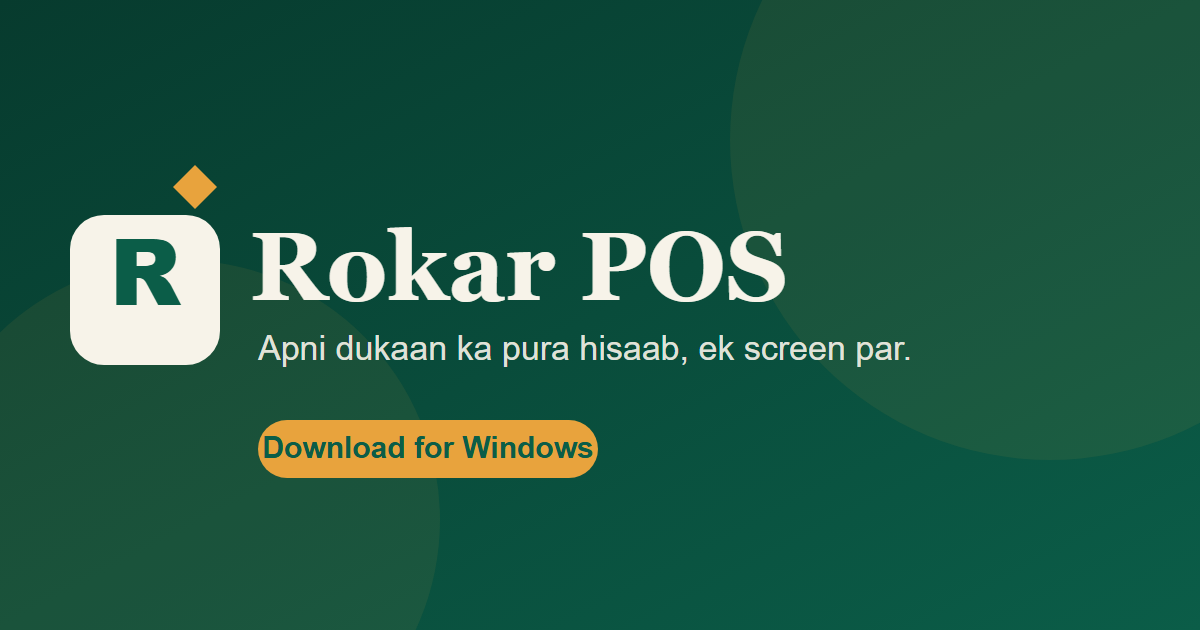
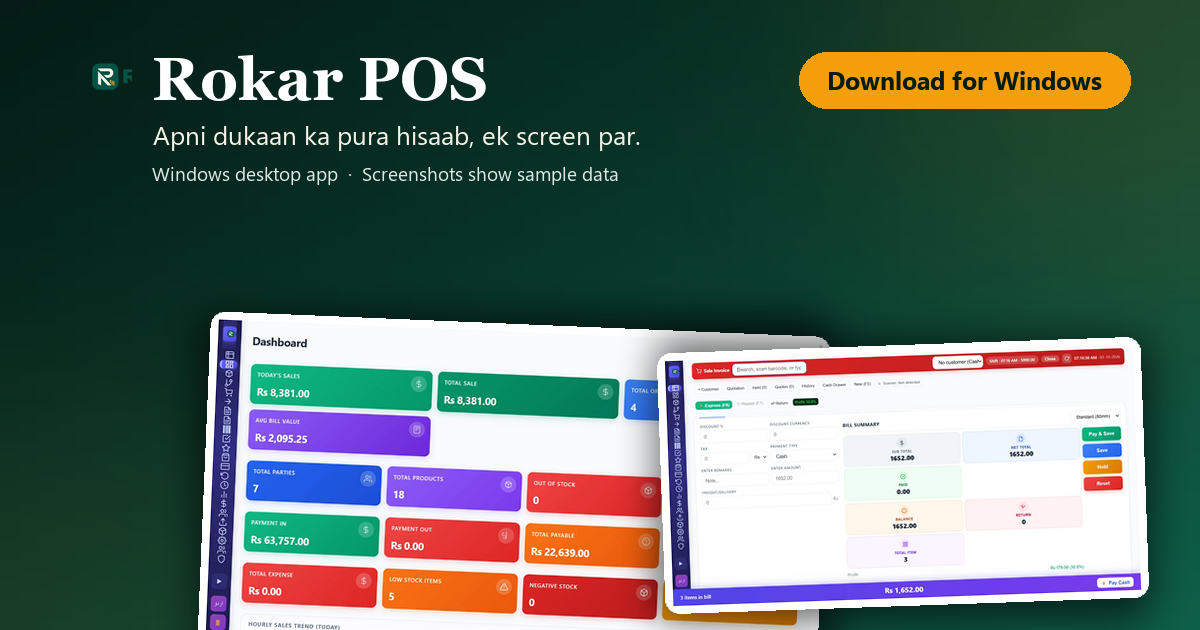
feat: rebuild the share card from the real screenshots
og-cover.png was a hand-written SVG showing a wordmark and a drawn button -
no product in it at all. On a link preview that is the one image every visitor
sees first in WhatsApp, Slack and Facebook, and it was the least honest surface
on the site.

build/build-og-cover.py now composes the card from real files: the dashboard and
billing captures, public/logo.png, and the palette mirrored from styles.css. Both
screenshots are cropped to their bezel, rotated, and dropped in with a blurred
shadow. 268 KB, well under the point where scrapers start dropping the card.

The captions on the card state that the screenshots show sample data, same as the
page does. A share preview is exactly the sort of place where that gets left off
and cannot be taken back once it is out in a group chat.

Also:

- og:image:alt and twitter:image:alt described a billing screen the old card
  never contained. Corrected to what the card now actually shows.
- /screens/* gets a week of caching. The captures are 400 KB that every visitor
  on a phone connection pays for on repeat views, and Vercel's default
  max-age=0 meant revalidating all six every time.

Run with `npm run og:cover`. Not wired into verify, since Vercel's build image
has no Pillow and a missing interpreter should not fail a deploy.

diff --git a/index.html b/index.html
@@ -40,7 +40,10 @@
     <meta property="og:image:type" content="image/png" />
     <meta property="og:image:width" content="1200" />
     <meta property="og:image:height" content="630" />
-    <meta property="og:image:alt" content="Rokar POS billing screen showing a live receipt and stock report" />
+    <meta
+      property="og:image:alt"
+      content="Rokar POS wordmark with real screenshots of the dashboard and billing screens, shown with sample data"
+    />
 
     <!-- Twitter -->
     <meta name="twitter:card" content="summary_large_image" />
@@ -50,7 +53,10 @@
       content="Fast offline billing, udhaar khata and stock audit for retail stores in Pakistan."
     />
     <meta name="twitter:image" content="https://rokarpos.co.uk/og-cover.png" />
-    <meta name="twitter:image:alt" content="Rokar POS billing screen showing a live receipt and stock report" />
+    <meta
+      name="twitter:image:alt"
+      content="Rokar POS wordmark with real screenshots of the dashboard and billing screens, shown with sample data"
+    />
 
     <!-- Canonical: both rokarpos.co.uk and www.rokarpos.co.uk are served,
          this tells search engines which one is the primary. -->

diff --git a/build/build-og-cover.py b/build/build-og-cover.py
@@ -1,0 +1,180 @@
+"""
+Builds public/og-cover.png (1200x630) from the real application screenshots.
+
+The previous cover was a hand-written SVG that drew a fake app window. A link
+preview is the one piece of this site that shows up on WhatsApp, Facebook and
+Slack, so it should carry the same evidence as the rest of the page: actual
+captures of Rokar POS, not an illustration of it.
+
+Everything on the card is derived from files in the repo:
+  * public/screens/*.webp  - the captures from pos-app/scripts/capture_screens.js
+  * public/logo.png       - the real mark
+  * src/styles.css        - the brand palette (COLOURS below mirrors --teal-*)
+
+The screenshots are of a demo database, so the card says so. A share preview is
+exactly the sort of surface where that is easy to leave out and easy to regret.
+
+Usage:  python build/build-og-cover.py     (or: npm run og:cover)
+"""
+
+import sys
+from pathlib import Path
+
+from PIL import Image, ImageDraw, ImageFilter, ImageFont
+
+ROOT = Path(__file__).resolve().parent.parent
+PUBLIC = ROOT / "public"
+SCREENS = PUBLIC / "screens"
+
+W, H = 1200, 630
+
+# Mirrors src/styles.css. Kept literal rather than parsed so that a palette
+# rename in one place cannot silently leave the social card behind.
+TEAL_DEEP = (4, 28, 21)
+TEAL = (8, 58, 45)
+TEAL_RAISE = (14, 95, 73)
+CREAM = (247, 243, 233)
+CREAM_HI = (255, 255, 255)
+GOLD = (245, 158, 11)
+
+WIN_FONTS = Path("C:/Windows/Fonts")
+
+
+def font(name: str, size: int) -> ImageFont.FreeTypeFont:
+    """Load a face, falling back through a sensible chain.
+
+    Windows is the only machine that renders this today, but the card has to
+    survive a fresh clone elsewhere, so a missing face degrades to DejaVu
+    (bundled with Pillow) instead of crashing the build.
+    """
+    chain = [WIN_FONTS / name, Path("/usr/share/fonts/truetype/dejavu") / name]
+    chain += [
+        Path("/usr/share/fonts/truetype/dejavu") / "DejaVuSerif.ttf",
+        Path("/usr/share/fonts/truetype/dejavu") / "DejaVuSans.ttf",
+    ]
+    for path in chain:
+        if path.exists():
+            return ImageFont.truetype(str(path), size)
+    raise SystemExit("no usable TrueType face found")
+
+
+def gradient() -> Image.Image:
+    """Diagonal teal gradient, built small and scaled up so it stays smooth."""
+    small = Image.new("RGB", (64, 64))
+    px = small.load()
+    for y in range(64):
+        for x in range(64):
+            t = (x / 63 * 0.55 + y / 63 * 0.45) ** 1.15
+            px[x, y] = tuple(round(TEAL_DEEP[i] + (TEAL_RAISE[i] - TEAL_DEEP[i]) * t) for i in range(3))
+    return small.resize((W, H), Image.LANCZOS)
+
+
+def glow(base: Image.Image, cx: int, cy: int, r: int, colour, alpha: int) -> None:
+    """Soft radial light. Drawn on its own layer and blurred, because a hard
+    circle edge is what makes a synthetic background look synthetic."""
+    layer = Image.new("RGBA", (W, H), (0, 0, 0, 0))
+    ImageDraw.Draw(layer).ellipse([cx - r, cy - r, cx + r, cy + r], fill=colour + (alpha,))
+    layer = layer.filter(ImageFilter.GaussianBlur(r * 0.45))
+    base.alpha_composite(layer)
+
+
+def rounded(img: Image.Image, radius: int) -> Image.Image:
+    mask = Image.new("L", img.size, 0)
+    ImageDraw.Draw(mask).rounded_rectangle([0, 0, img.width - 1, img.height - 1], radius=radius, fill=255)
+    out = img.convert("RGBA")
+    out.putalpha(mask)
+    return out
+
+
+def shot_card(name: str, width: int, angle: float) -> tuple[Image.Image, int, int]:
+    """Load one capture into a rounded, shadowed, slightly rotated card.
+
+    Returns the card plus how far the rotation grew it, so the caller can place
+    the result by its visible centre rather than its pre-rotation origin.
+    """
+    src = SCREENS / name
+    if not src.exists():
+        raise SystemExit(f"missing {src} - run `npm run capture:screens` in pos-app first")
+
+    shot = Image.open(src)
+    shot = shot.convert("RGB").resize((width, round(width * shot.height / shot.width)), Image.LANCZOS)
+
+    pad = 8  # the white "bezel" that makes it read as a window rather than a photo
+    bezel = Image.new("RGB", (shot.width + pad * 2, shot.height + pad * 2), CREAM_HI)
+    bezel.paste(shot, (pad, pad))
+    card = rounded(bezel, 14)
+
+    grew_w = card.width - card.width * abs(_cos(angle)) - card.height * abs(_sin(angle))
+    grew_h = card.height - card.width * abs(_sin(angle)) - card.height * abs(_cos(angle))
+    card = card.rotate(angle, resample=Image.BICUBIC, expand=True)
+
+    shadow = Image.new("RGBA", (card.width + 80, card.height + 80), (0, 0, 0, 0))
+    ImageDraw.Draw(shadow).rounded_rectangle(
+        [40, 44, 40 + card.width, 44 + card.height], radius=16, fill=(0, 0, 0, 150)
+    )
+    shadow = shadow.filter(ImageFilter.GaussianBlur(18))
+    out = Image.new("RGBA", shadow.size, (0, 0, 0, 0))
+    out.alpha_composite(shadow, (0, 0))
+    out.alpha_composite(card, (40, 40))
+    return out, round(grew_w / 2), round(grew_h / 2)
+
+
+def _cos(deg: float) -> float:
+    import math
+
+    return math.cos(math.radians(deg))
+
+
+def _sin(deg: float) -> float:
+    import math
+
+    return math.sin(math.radians(deg))
+
+
+def build() -> Path:
+    canvas = gradient().convert("RGBA")
+    glow(canvas, 1090, 90, 300, GOLD, 26)
+    glow(canvas, 120, 600, 260, GOLD, 16)
+
+    draw = ImageDraw.Draw(canvas)
+
+    # ---- wordmark row -------------------------------------------------
+    logo = Image.open(PUBLIC / "logo.png").convert("RGBA").resize((62, 62), Image.LANCZOS)
+    canvas.alpha_composite(logo, (70, 46))
+
+    head = font("georgiab.ttf", 60)
+    draw.text((152, 44), "Rokar POS", font=head, fill=CREAM_HI)
+
+    sub = font("segoeui.ttf", 26)
+    draw.text((153, 116), "Apni dukaan ka pura hisaab, ek screen par.", font=sub, fill=CREAM)
+
+    # ---- download pill -------------------------------------------------
+    pill_font = font("segoeuib.ttf", 25)
+    label = "Download for Windows"
+    tw = draw.textlength(label, font=pill_font)
+    px1, py1, px2, py2 = 1200 - 70 - tw - 56, 52, 1200 - 70, 108
+    draw.rounded_rectangle([px1, py1, px2, py2], radius=28, fill=GOLD)
+    draw.text((px1 + 28, py1 + 11), label, font=pill_font, fill=TEAL_DEEP)
+
+    # ---- honesty line --------------------------------------------------
+    note = font("segoeui.ttf", 19)
+    draw.text((152, 160), "Windows desktop app  \u00b7  Screenshots show sample data", font=note, fill=(222, 235, 228, 210))
+
+    # ---- the real screens ----------------------------------------------
+    back, gx, gy = shot_card("dashboard.webp", 604, -2.4)
+    front, fx, fy = shot_card("billing.webp", 468, 2.0)
+    canvas.alpha_composite(back, (150 - gx, 258 - gy))
+    canvas.alpha_composite(front, (612 - fx, 288 - fy))
+
+    out = PUBLIC / "og-cover.png"
+    canvas.convert("RGB").save(out, "PNG", optimize=True)
+    return out
+
+
+if __name__ == "__main__":
+    path = build()
+    kb = path.stat().st_size / 1024
+    print(f"wrote {path.relative_to(ROOT)} ({W}x{H}, {kb:.0f} KB)")
+    # Social scrapers vary, but an oversized card is a card some of them drop.
+    if kb > 500:
+        print("WARNING: over 500 KB - some scrapers will refuse it", file=sys.stderr)
